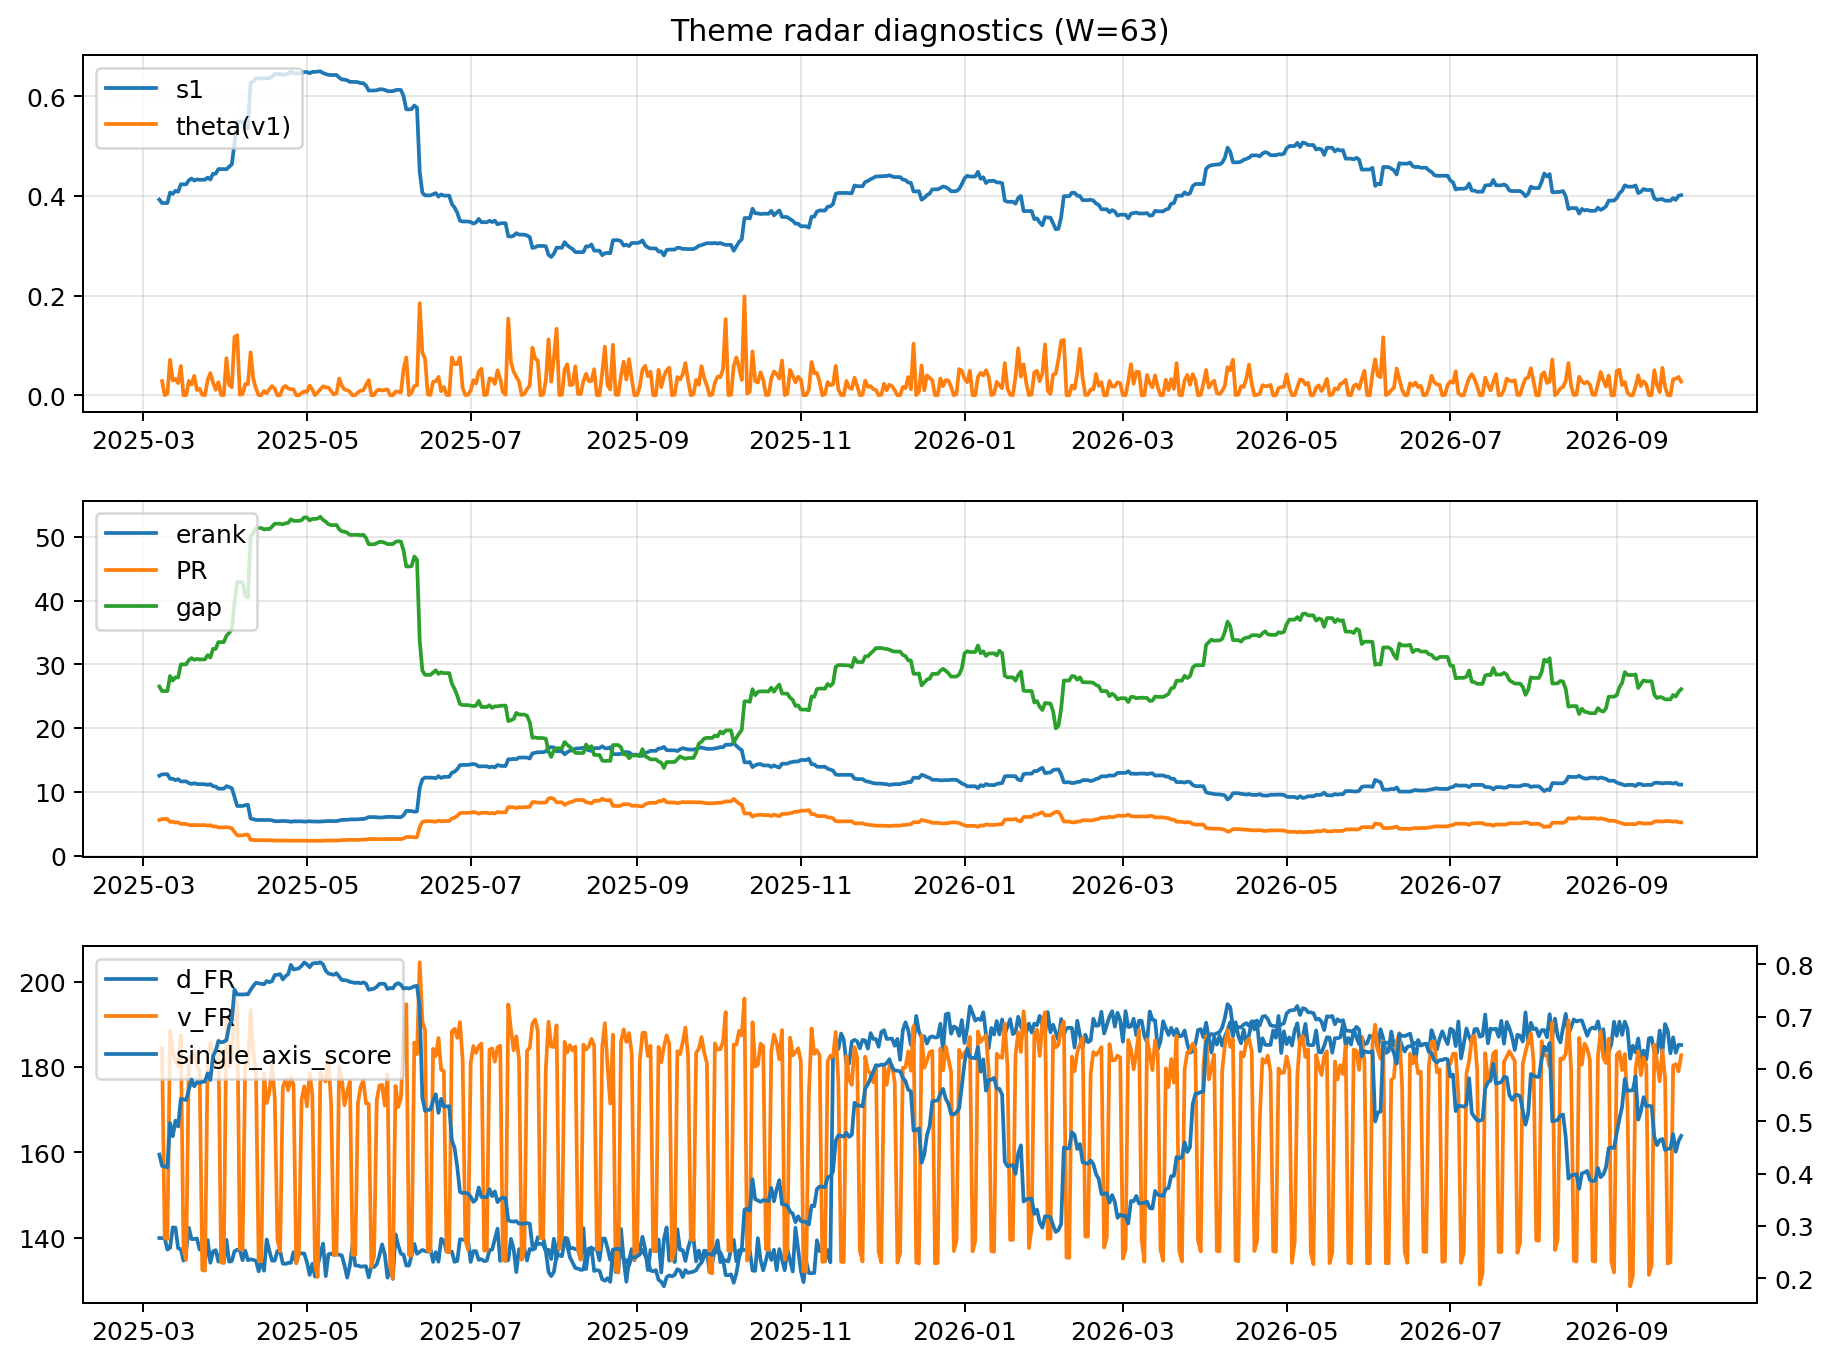
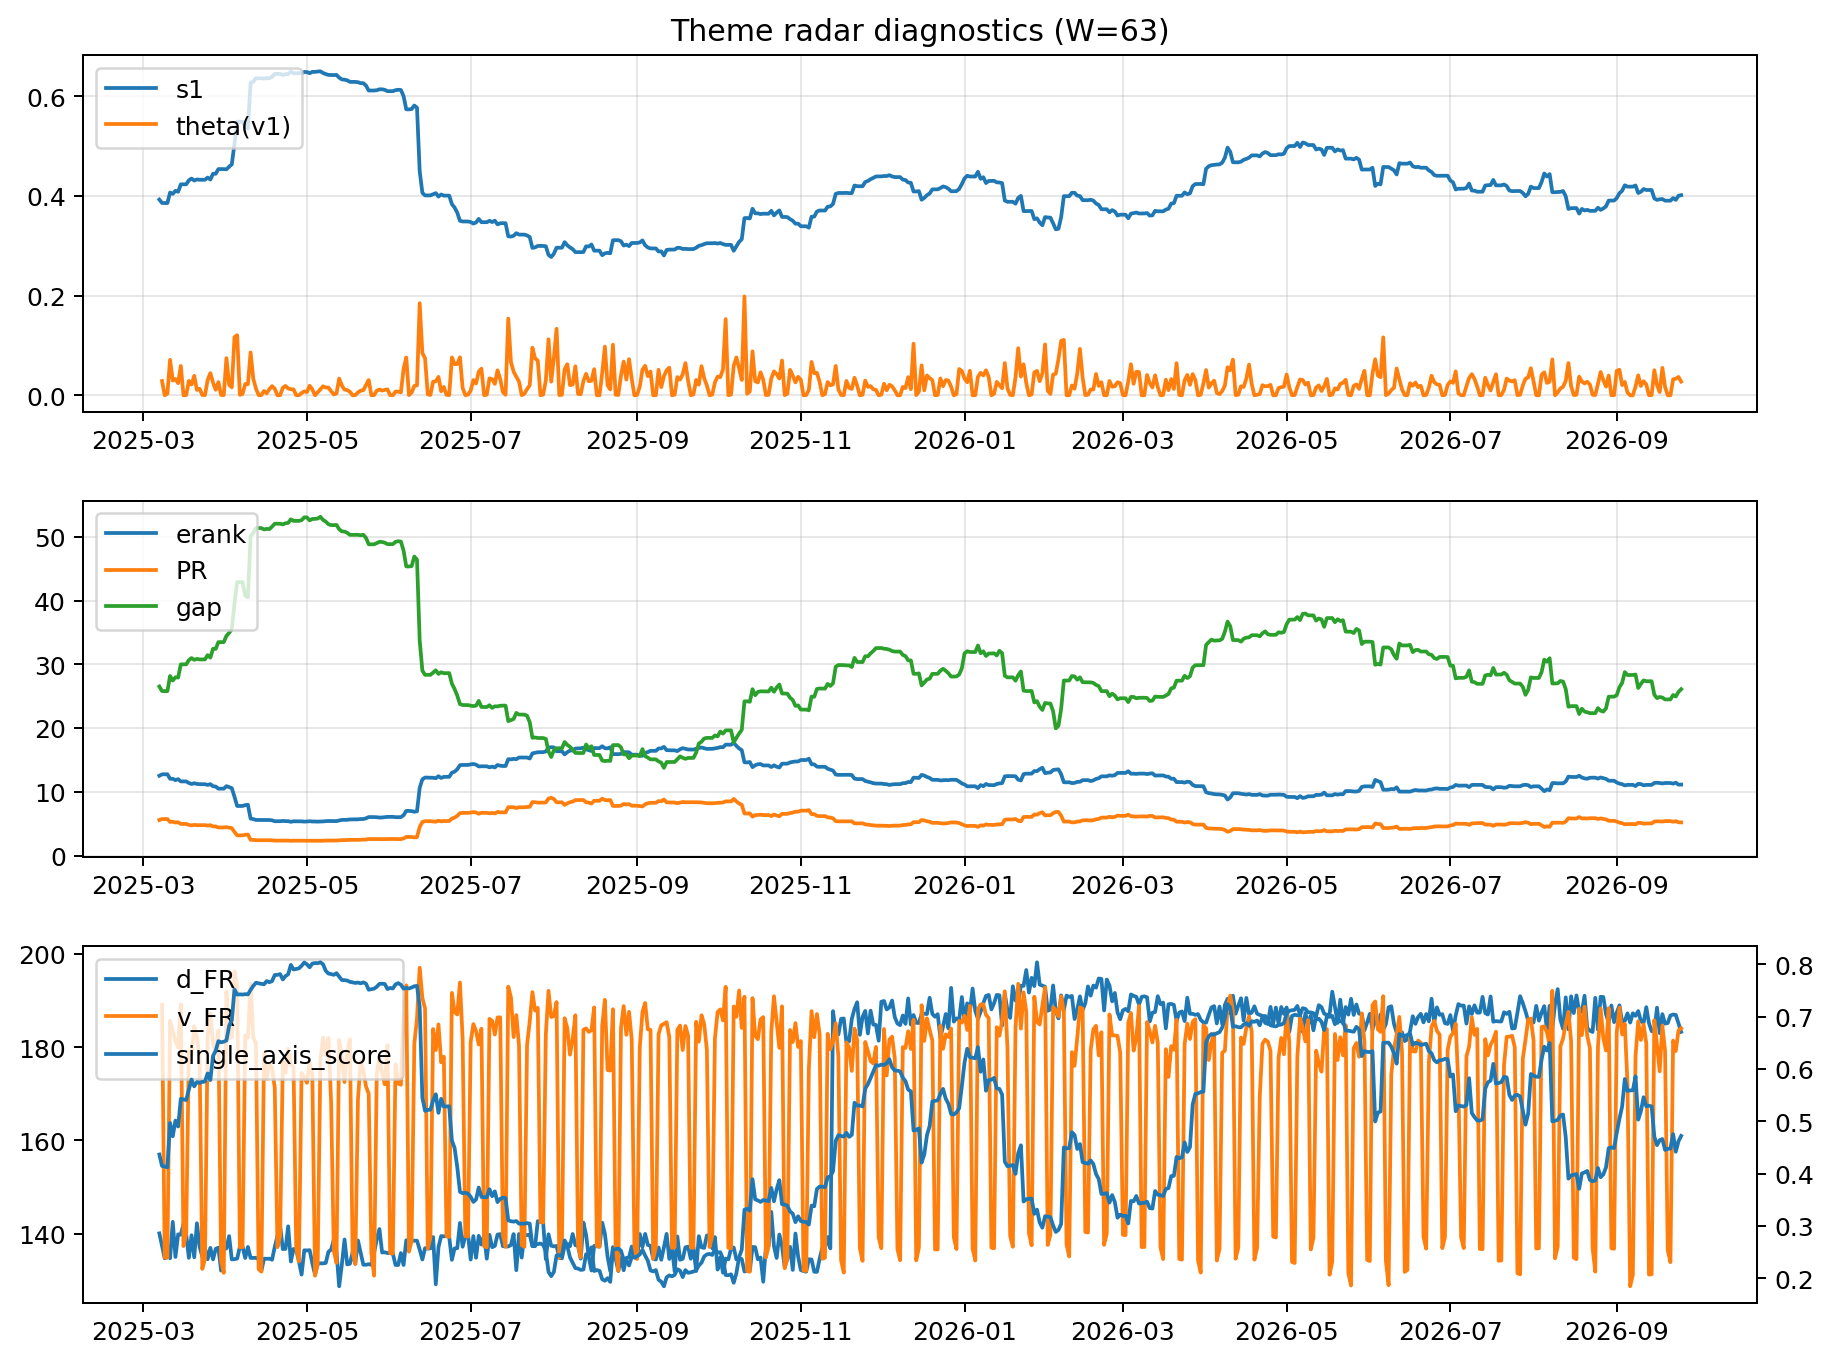
log: 2026-09-25 | sha256:8ab0113a79dc9333a1348168392fa15cd6649198c96dfe0bcda1287bab6bc3b3

diff --git a/logs/2026-09-25.md b/logs/2026-09-25.md
@@ -3,43 +3,43 @@
 ![diagnostic W63](../assets/diagnostic/2026-09-25_W63.png)
 
 ## Leaders (v1) — W=63
-- **Nuclear_Uranium** (0.082620906035345)
-- Semis (0.0665501154396667)
-- Quantum (0.0599949828752286)
+- **Nuclear_Uranium** (0.0826209039623564)
+- Semis (0.0665501106571482)
+- Quantum (0.059994980236933)
 
 ## Challengers — W=63
-**v2:** Semis (0.0894079983823387), Rates (0.0887106168012477), Genomics_Bio (0.0813941996538308)
-**v3:** Metals (0.0802021291521347), Software_Cloud (0.0747969390737363), MegaCap_AI (0.0582416416123086)
+**v2:** Semis (0.0894079722992192), Rates (0.0887105926445201), Genomics_Bio (0.0813942441221187)
+**v3:** Metals (0.0802020596292842), Software_Cloud (0.0747970681988799), MegaCap_AI (0.0582416542800158)
 
 ## Migration (20D slope) — W=63
 **Top risers:**
-- axis_DataCenter_Infra: 0.0004963493669379
-- axis_Rates: 0.0004035763664722
-- axis_Sector_Utilities: 0.0001806219871457
-- axis_Credit: 0.0001737205612075
-- axis_Commodities: 0.000168023927452
-- axis_MegaCap_AI: 0.0001623816729236
-- axis_Equity_US: 0.0001506751269632
-- axis_Genomics_Bio: 0.0001415344166365
-- axis_Sector_Materials: 0.0001075822509595
-- axis_Robotics: 9.59220014569531e-05
+- axis_DataCenter_Infra: 0.000496349578847
+- axis_Rates: 0.0004035753728134
+- axis_Sector_Utilities: 0.0001806217736159
+- axis_Credit: 0.0001737177180382
+- axis_Commodities: 0.0001680236761268
+- axis_MegaCap_AI: 0.0001623816836328
+- axis_Equity_US: 0.0001506752035177
+- axis_Genomics_Bio: 0.0001415350329456
+- axis_Sector_Materials: 0.0001075821779958
+- axis_Robotics: 9.592201730541278e-05
 
 **Top fallers:**
-- axis_Critical_Minerals: -7.706367320885855e-05
-- axis_Sector_RealEstate: -0.0001045422072439
-- axis_Defense: -0.0001187409792423
-- axis_Sector_Health: -0.0001877137886537
-- axis_Sector_Energy: -0.0001984730637539
-- axis_Sector_ConsStap: -0.0002229033298474
-- axis_Metals: -0.0002431881717343
-- axis_Nuclear_Uranium: -0.0003247889296149
-- axis_Cyber: -0.0003479972160703
-- axis_Crypto: -0.0004344769008074
+- axis_Critical_Minerals: -7.706356016562328e-05
+- axis_Sector_RealEstate: -0.0001045421614082
+- axis_Defense: -0.0001187409432403
+- axis_Sector_Health: -0.0001877137402797
+- axis_Sector_Energy: -0.0001984731812891
+- axis_Sector_ConsStap: -0.000222903223029
+- axis_Metals: -0.0002431880710727
+- axis_Nuclear_Uranium: -0.0003247884435875
+- axis_Cyber: -0.0003479969653724
+- axis_Crypto: -0.0004344769592062
 
 ## Risk line (W=63)
-- s1: 0.4014985571854265
-- theta_v1: 0.027592265253803
-- v_FR: 182.76285169324197
+- s1: 0.401498628015539
+- theta_v1: 0.0275921987633348
+- v_FR: 184.06121084326867
 - single_axis_score: 0.4721830985915494
 
 ## Interpretation
@@ -48,7 +48,7 @@
 - Action: Tomorrow watchlist: DataCenter_Infra, Rates, Sector_Utilities, Credit, Commodities + v2_top1=Semis
 - Action: Hedge note: normal correlation stability.
 
-- Percentiles (W=63 history): vfr_pct=0.63, theta_pct=0.62, s1_pct=0.45, score_pct=0.44.
+- Percentiles (W=63 history): vfr_pct=0.73, theta_pct=0.62, s1_pct=0.45, score_pct=0.44.
 
 ---
[2 lines of base64/hex data omitted]
